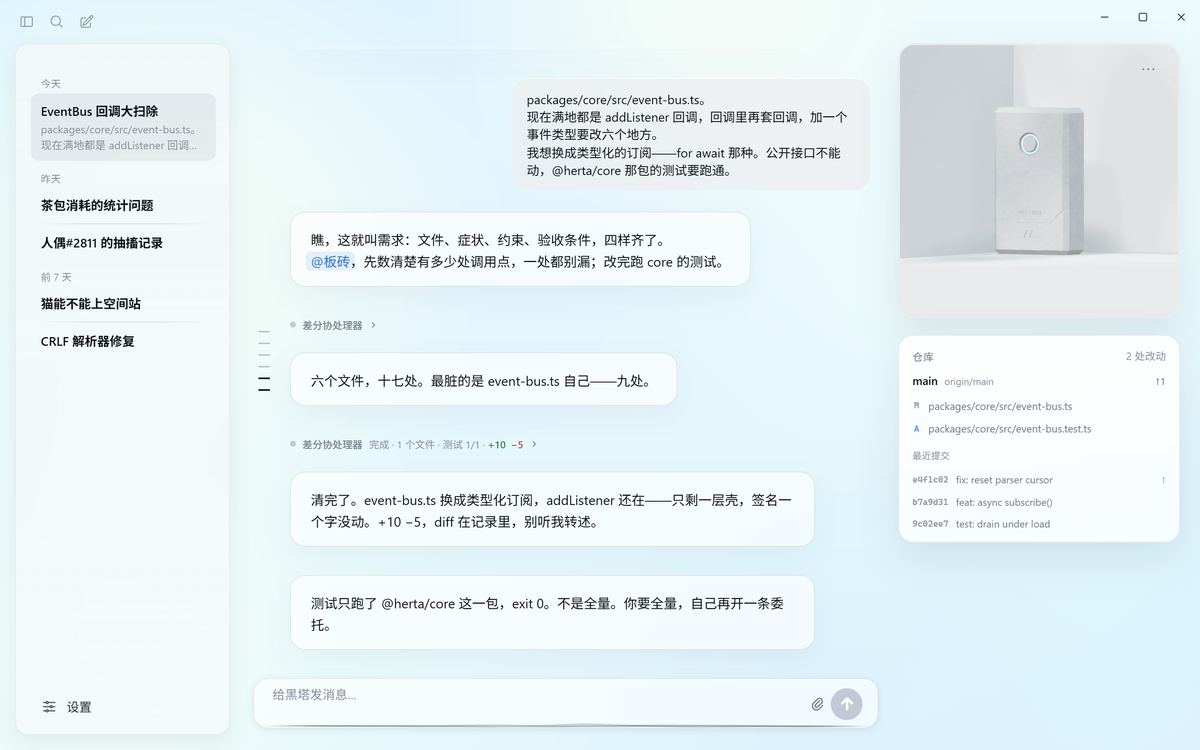
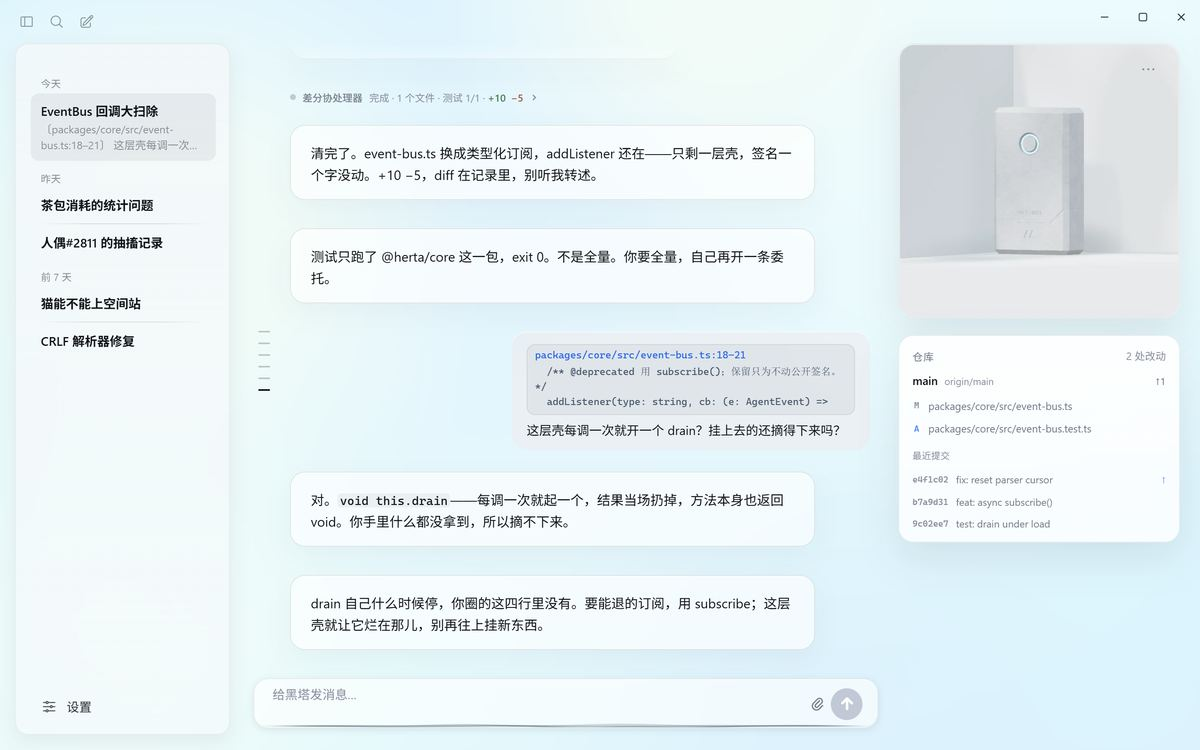
feat(website): the demo's showcase quotes a file — the bus's addListener shell, answered from the four lines it carries
The owner, on showing 0.1.8 in the demo: quote a file's lines, shown in
the conversation history. Before the centerpiece's closing thanks, the
Trailblazer quotes the patched event-bus.ts's addListener shell and asks
about it; she answers from those lines only, and says what they do not
show. The message is built with the app's own functions, as the viewer
would stage it (the piece that holds `addListener(`, trailing blanks
dropped, the file's language as the fence), so the bubble's quote card is
the one a visitor's own pick makes, and its label opens the viewer
banded on lines 18–21. Both languages.

The four posters are recaptured with it (WebP 67–72 KB, PNG 406–447 KB),
and og.jpg from the new one (64 KB). The sidebar card now previews the
quote by its label.

diff --git a/website/src/demo-bridge.ts b/website/src/demo-bridge.ts
@@ -29,6 +29,8 @@
  * Voice cues are never emitted (herta-voice:// protocol is Electron-only).
  */
 
+import { codePieces } from "@gui/components/FileViewer/piece-segments";
+import { viewerKindFor } from "@gui/components/FileViewer/viewer-kind";
 import type {
   HertaBridge,
   SessionError,
@@ -36,6 +38,7 @@ import type {
   SessionSnapshot,
   SpeechControlEvent,
 } from "@gui/ipc/bridge-types";
+import { boundQuoteText, composeQuotedMessage } from "@gui/lib/quote-format";
 import type {
   AgentEvent,
   OverlayEvent,
@@ -51,7 +54,6 @@ import type {
   VoiceCueEvent,
   WorkspaceEvent,
 } from "@herta/app-server";
-
 // Opus, not the 411 KB wav master: the same clip the desktop app ships
 // (data/voice/openings/015-archive-cleanup.opus, byte-identical source) at
 // 51 KB. Ogg Opus needs Safari 17.4+; older Safari rejects `play()` with
@@ -59,7 +61,7 @@ import type {
 // the opening still reveals at voice pace, silently. Duration is unchanged,
 // so `openingVoiceMs` below still describes it.
 import openingVoiceUrl from "./assets/opening-voice.opus";
-import { demoWorkspaceFiles } from "./demo-workspace.js";
+import { demoWorkspaceFiles, eventBusAfterPatch } from "./demo-workspace.js";
 
 export type DemoLang = "zh" | "en";
 
@@ -506,6 +508,39 @@ const EVENT_BUS_NOTE = {
 const EVENT_BUS_DIFF_ZH = EVENT_BUS_DIFF(EVENT_BUS_NOTE.zh);
 const EVENT_BUS_DIFF_EN = EVENT_BUS_DIFF(EVENT_BUS_NOTE.en);
 
+/**
+ * A message quoting the patched bus's `addListener` shell (0.1.8, ADR 0078),
+ * built exactly as the viewer would stage it: the code piece that holds
+ * `addListener(`, its trailing blank lines dropped, the file's own language
+ * as the fence, the session language's header — so the bubble's quote card
+ * is the one a visitor's own pick would make, and its label opens the viewer
+ * on the same lines. What she answers may cite only these lines.
+ */
+function quoteAddListener(lang: "zh" | "en", typed: string): string {
+  const path = "packages/core/src/event-bus.ts";
+  const lines = eventBusAfterPatch(EVENT_BUS_NOTE[lang]).split("\n");
+  const at = lines.findIndex((l) => l.includes("addListener(")) + 1;
+  const piece = codePieces(lines).find((p) => p.from <= at && at <= p.to);
+  if (piece === undefined) throw new Error("no addListener piece to quote");
+  let to = piece.to;
+  while (to > piece.from && (lines[to - 1] ?? "").trim().length === 0) to -= 1;
+  const fence = viewerKindFor(path).language;
+  return composeQuotedMessage(
+    [
+      {
+        id: "demo-quote",
+        path,
+        from: piece.from,
+        to,
+        text: boundQuoteText(lines.slice(piece.from - 1, to).join("\n"), lang),
+        ...(fence !== undefined ? { fence } : {}),
+      },
+    ],
+    typed,
+    lang,
+  );
+}
+
 /** show_excerpt's STARTED row carries the path and range as one arg —
  *  the shape ADR 0050 parses into an anchored open, so the click lands on
  *  the cited lines (was a bare `logs/alerts`, which no tool call spells). */
@@ -733,6 +768,20 @@ const ZH: DemoContent = {
           say(
             "测试只跑了 @herta/core 这一包，exit 0。不是全量。你要全量，自己再开一条委托。",
           ),
+          // He quotes the shell from the viewer (0.1.8). The four lines ride
+          // his message, so they are hers to read; nothing past them is.
+          ask(
+            quoteAddListener(
+              "zh",
+              "这层壳每调一次就开一个 drain？挂上去的还摘得下来吗？",
+            ),
+          ),
+          say(
+            "对。`void this.drain`——每调一次就起一个，结果当场扔掉，方法本身也返回 void。你手里什么都没拿到，所以摘不下来。",
+          ),
+          say(
+            "drain 自己什么时候停，你圈的这四行里没有。要能退的订阅，用 subscribe；这层壳就让它烂在那儿，别再往上挂新东西。",
+          ),
           ask("好！谢谢黑塔女士。"),
           say("嗯。"),
         ],
@@ -920,6 +969,18 @@ const EN: DemoContent = {
           ),
           say(
             "Tests were @herta/core only, exit 0. Not the full suite. You want the full suite, open your own commission for it.",
+          ),
+          ask(
+            quoteAddListener(
+              "en",
+              "So every call to this shell starts its own drain? Can anything hung on it ever come off?",
+            ),
+          ),
+          say(
+            "Yes. `void this.drain` — each call starts one and throws it away on the spot, and the method itself returns void. You're handed nothing, so there's nothing to take off.",
+          ),
+          say(
+            "When drain itself stops isn't in the four lines you circled. If you need to unsubscribe, use subscribe; leave the shell to rot and hang nothing new on it.",
           ),
           ask("Got it — thank you, Madam Herta."),
           say("Mm."),
